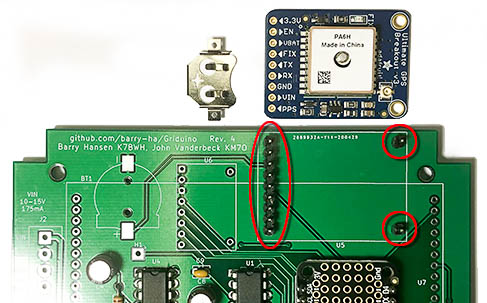
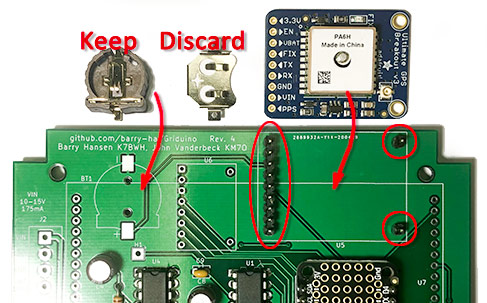
add battery holder, gps, pressure sensor instructions

diff --git a/ASSEMBLY.md b/ASSEMBLY.md
@@ -103,8 +103,6 @@ Solder the five resistors and snip off excess wire lengths.
 
 
 
-
-
 <h3>Step 4: Small 0.1 uF Capacitors</h3>
 
 The four tiny 0.1 uF ceramic capacitors are all the same, but they're tiny so don't drop them. They are not polarized; however, it is good practice to orient their labels all in the same direction to make it easier to read their legends.
@@ -145,7 +143,7 @@ The Feather comes with two 16-pin header strips loose in the package. Take one s
 
 ![](hardware/img/feather-headers-img7072.jpg)
 
-To remove the Feather from the breadboard, carefully work it upward gently from both ends. It can be helpful to pry it gently with a small screwdriver from underneath.
+To remove the Feather from the breadboard, carefully work it upward gently from both ends. It can be helpful to lever it *gently* upwards with a small screwdriver from underneath.
 
 ![](hardware/img/feather-removal-img7073.jpg)
 
@@ -168,7 +166,7 @@ The "Ultimate GPS" package shipped from Adafruit comes with a header strip and a
 * Count the pins on the supplied header strip. The GPS requires a 9-pin header and sometimes Adafruit may ship an 8-pin header. Add an extra pin from some extra strip, such as the one leftover from the Feather.
 * Do not solder a battery holder onto the back of the GPS. It won't hurt anything to have this holder, but it will go unused. Its slot will be unreachable after all the parts are installed. Instead, the Griduino board is designed with a separate coin battery holder, BT1, to replace this one on the back of the Ultimate GPS board.
 
-Insert a 9-pin header pin strip onto the Griduino PCB. Break off two single pins from a leftover strip and insert them into the other two corners. Do not solder them yet.
+Insert a 9-pin header pin strip onto the Griduino PCB. Break off two single pins from a leftover strip and insert them into the other two corners. Do not solder them yet. Also shown below are the two battery holders and which one goes on the board in the next step.
 
 ![](hardware/img/gps-pins-img7089.jpg)
 
@@ -178,14 +176,27 @@ Tape the GPS assembly in place, if needed. Turn the board over and solder one pi
 
 ![](hardware/img/gps-soldered-img7092.jpg)
 
-<h3>Step 9: Barometric Pressure Sensor</h3>
-(Coming soon.)
+<h3>Step 9: BT1 Battery Holder</h3>
 
-<h3>Step 10: BT1 Battery Holder</h3>
+Solder the battery holder onto the PCB. This is a surface-mount device; note that is has a small plastic detent to precisely align it in place. You might still need a small clamp or clothespin (remember those?) or tape to temporarily hold it in place while soldering. 
 
-Solder the battery holder onto the PCB. This is a surface-mount device so use a small clamp or clothespin (remember those?) or tape to temporarily hold it in place while soldering.
+![](hardware/img/battery-holder-img7096.jpg)
 
-Don't insert a battery just yet. Do this at the end to avoid any chance of shorts during construction.
+**Do not** insert a battery yet. Put the battery aside until the end to avoid any chance of shorts during construction.
+
+<h3>Step 10: Barometric Pressure Sensor</h3>
+
+The barometric sensor comes with a matching 8-pin header strip. Insert this header strip into the main board, long pins first and short pins extending upward. (Okay, it doesn't really matter but we think this looks better.)
+
+Break off two single pins from a leftover strip and insert them into the other two corners. Do not solder them yet.
+
+![](hardware/img/pressure-img7098.jpg)
+
+Lower the barometric sensor mini-board onto the pins and solder the top pins. The two single pins in the corners are for physical support and have no other functional purpose.
+
+If needed, clamp or tape the pressure sensor in place, and turn over the assembly and solder one pin on the end of the strip. Check the assembly is still tight to the board. If not, reheat the pin while pushing the assembly tight to the board. Solder the remaining bottom pins, and solder any remaining top pins.
+
+![](hardware/img/pressure-img7100.jpg)
 
 <h3>Step 11: U7 Display ILI9341</h3>
 
